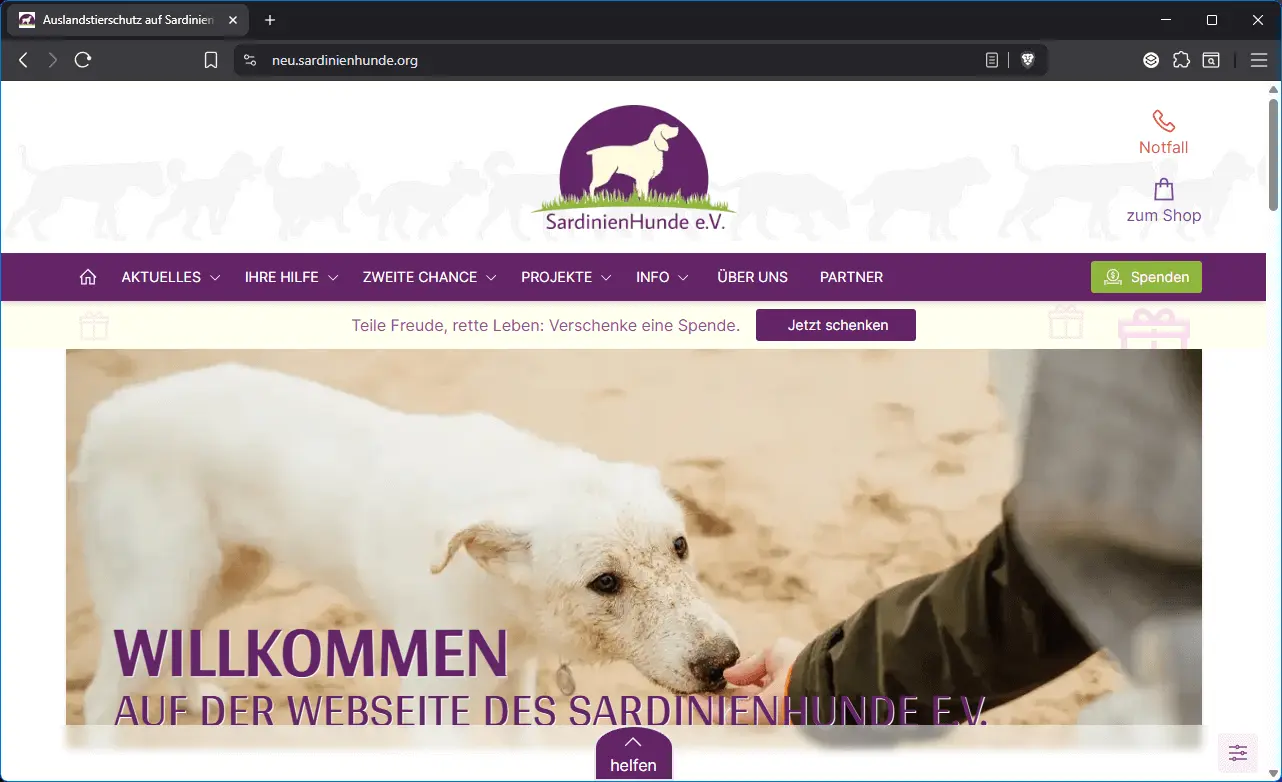
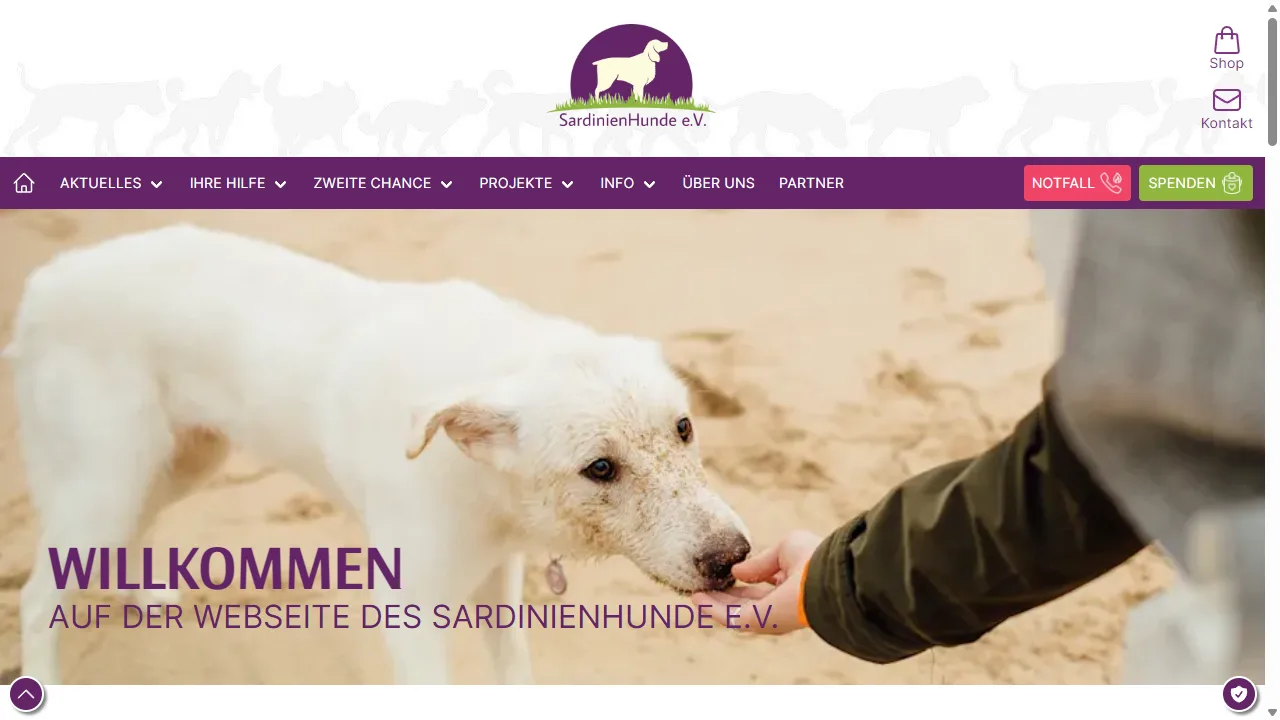
Re-shoot the brotrechner.de and sardinienhunde.org project images
brotrechner.de was redesigned (warm cream/terracotta palette, new nav and
logo), so its card was showing the old blue design.

Both live-site shots are now clean 1280x720 viewport captures instead of
full Edge-window screenshots. Dropping the browser chrome was the point:
Playwright cannot capture it, so re-shooting only brotrechner would have
left one card in the grid visibly unlike the others.

Shooting at 1280x720 also matches the Braze and Shopify assets and the
aspect-video card, so these two are no longer cropped top and bottom the
way the old 1282x782 shots were.

The SardinienHunde capture dismisses the Klaro banner with "Auswahl
speichern" rather than "Alle akzeptieren", so no analytics cookies were
accepted to take it.

Filenames are unchanged, so portfolio.ts needed no edit.

diff --git a/CLAUDE.md b/CLAUDE.md
@@ -105,6 +105,23 @@ Defined entirely in `src/styles/global.css`. Components read tokens; **no compon
 
 All three ink tiers carry small text (labels, table headers, tag chips), so **every one of them must clear WCAG AA 4.5:1 against `ground`, `ground-deep` AND `raised`** — `raised` is the lightest ground and therefore the worst case. Current worst-case ratios: `fg` 14.6:1, `fg-muted` 7.4:1, `fg-faint` 4.6:1. **Lowering any lightness value breaks AA.** Verify with a real OKLCH→sRGB contrast calculation, not by eye.
 
+### Project screenshots
+
+`src/assets/projects/` holds two kinds of image, and they are not shot the same way:
+
+- **Live sites** (`brotrechner.de`, `sardinienhunde.org`) — clean viewport captures at **1280×720**, no browser chrome. They were originally full Edge-window screenshots including the tab and address bar; that was dropped deliberately, so do not reintroduce chrome on one card only.
+- **Product mockups** (the Braze, Shopify and viewer shots) — designed cards, not screenshots. Not reproducible from a URL.
+
+`Projects.astro` renders these at `aspect-video` with `object-cover`, so anything that is not 16:9 gets cropped top and bottom. Shoot at 1280×720 and nothing is lost.
+
+To re-shoot a live site after a redesign: load it at a 1280×720 viewport, dismiss any consent banner **without accepting analytics** (SardinienHunde runs Klaro — use *Auswahl speichern*, not *Alle akzeptieren*), scroll to top, capture the viewport, then
+
+```sh
+node -e "require('sharp')('shot.png').resize(1280,720,{fit:'cover'}).webp({quality:82}).toFile('src/assets/projects/<name>.webp')"
+```
+
+Filenames are imported by name in `src/i18n/portfolio.ts`, so keeping the name means no code change.
+
 ### Layout rule that bites
 
 Grid and flex items default to `min-width: auto`, so any wide child (the scan table, the CV table) will push its track past the viewport and give the whole page a horizontal scrollbar. **Every grid track holding a wide element needs `min-w-0`**, with `overflow-x-auto` on the wide element's own wrapper — and that wrapper needs `tabindex="0"` + `role="region"` + an `aria-label` so it can be scrolled by keyboard (WCAG 2.1.1).
